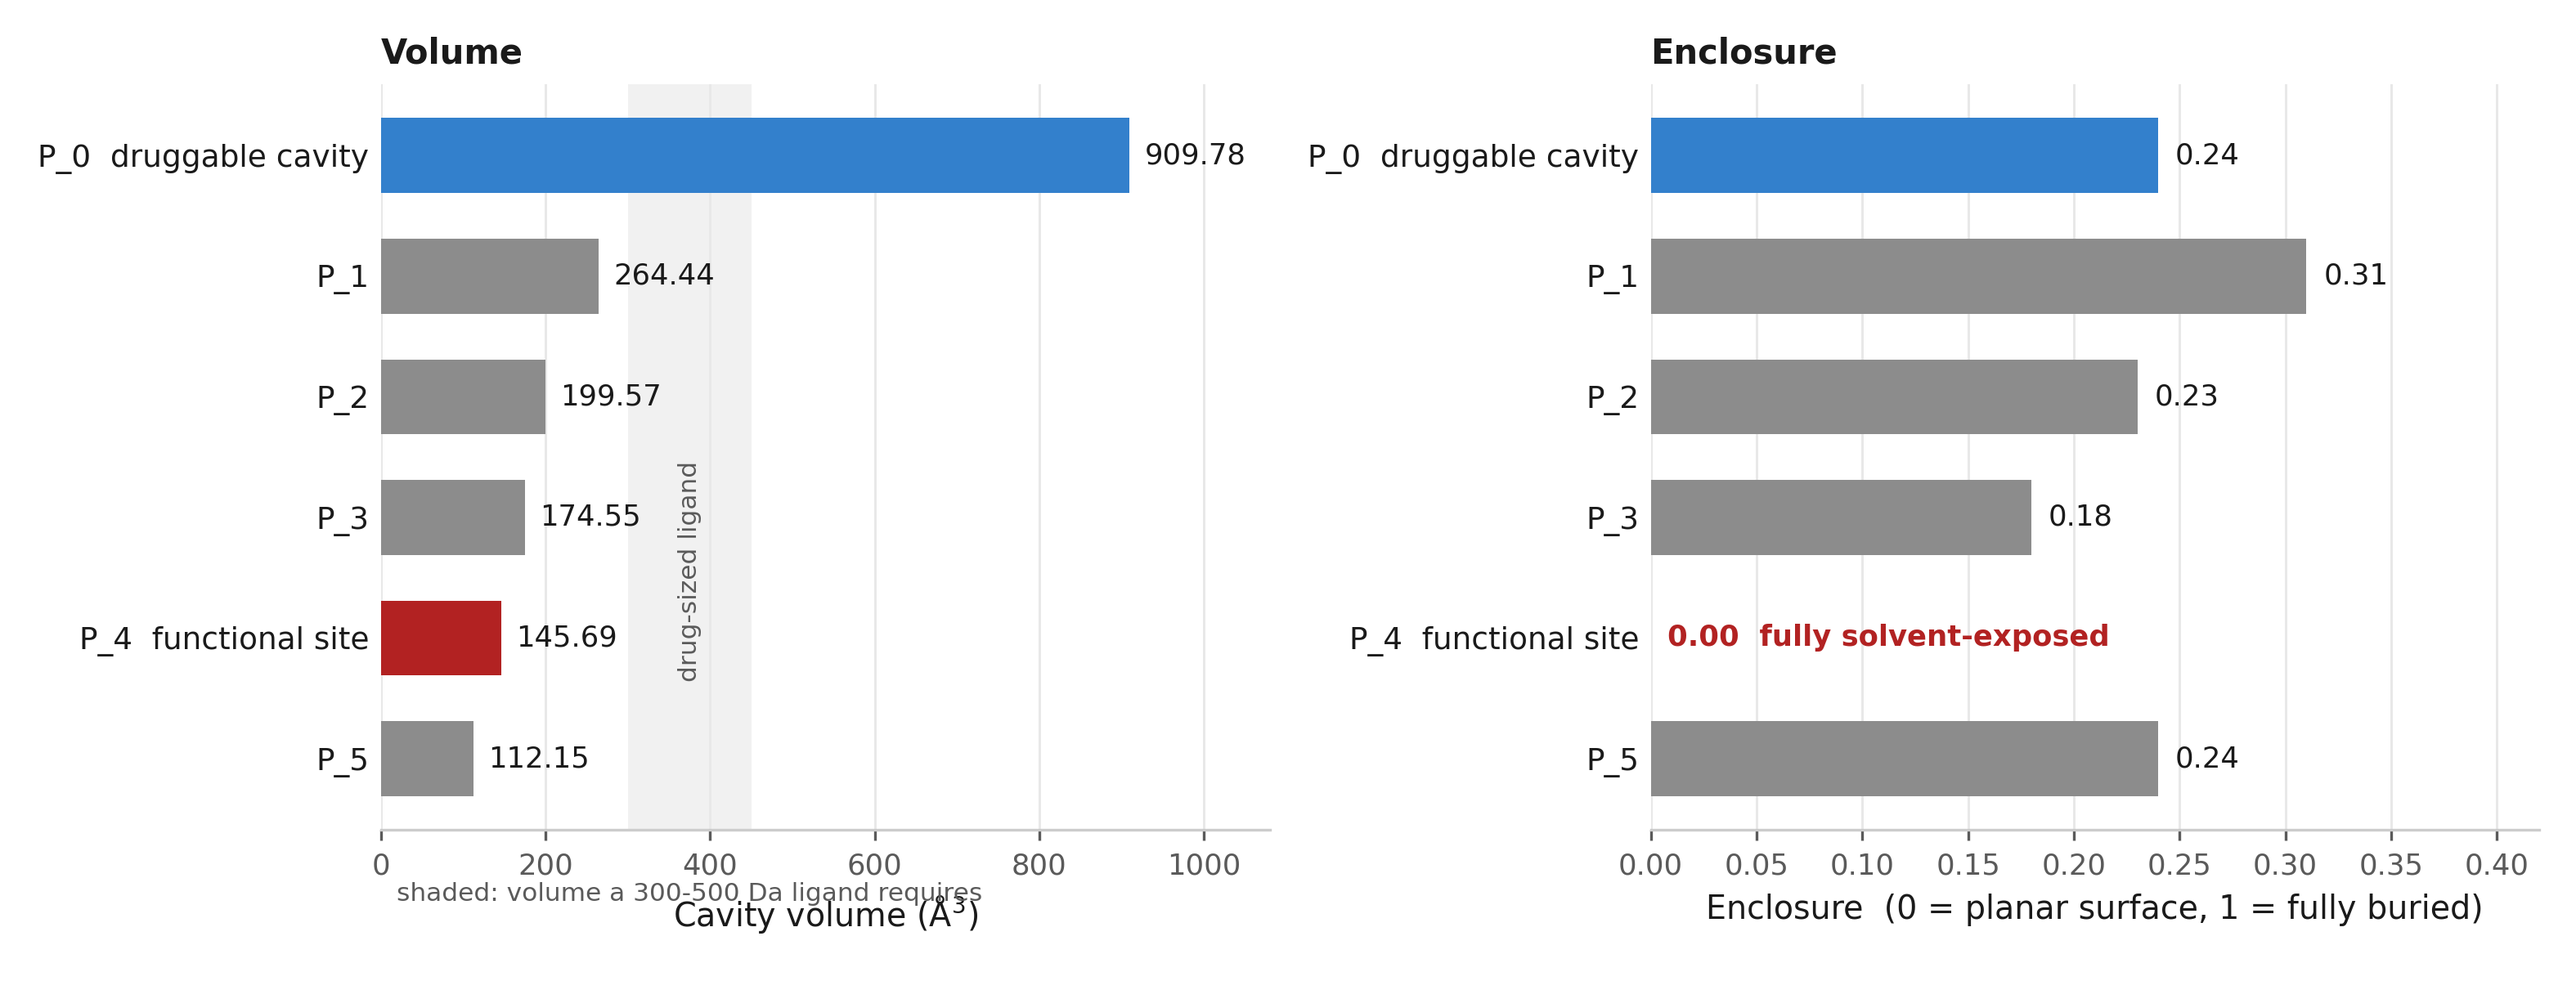
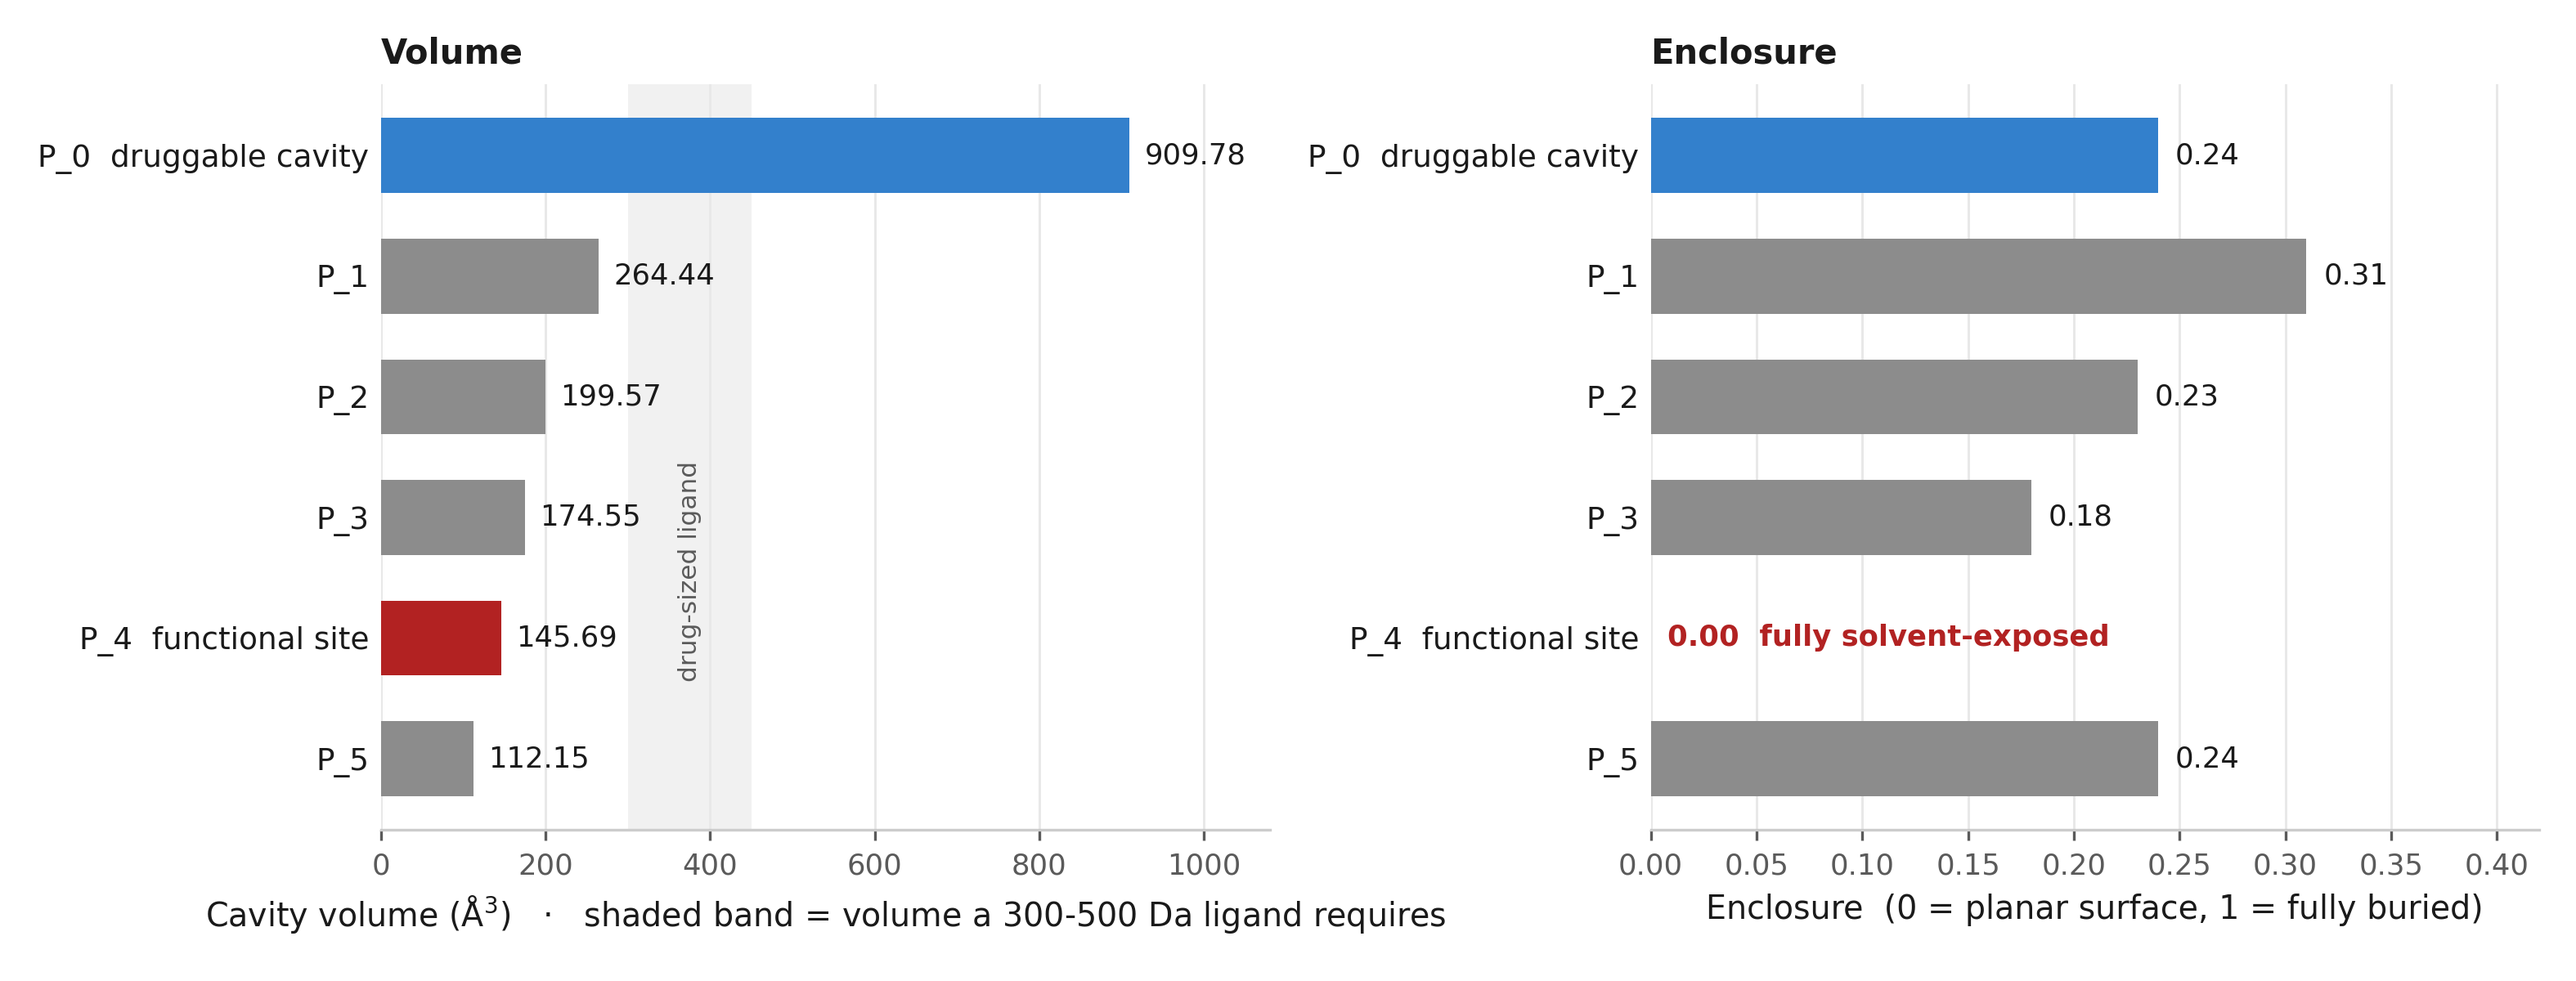
Figure 2: assemble panels A-D with letters, fix panel D axis label

Changed region(s): [[0.0933, 0.8942, 0.56, 0.9558]]

diff --git a/figures/fig2D_chart.py b/figures/fig2D_chart.py
@@ -1,0 +1,94 @@
+#!/usr/bin/env python3
+"""
+Figure 2 panel D - quantitative comparison of all six detected cavities.
+
+Replaces the attempted cross-section render. Enclosure is a number between 0
+and 1, and the claim the panel has to carry is that the functional site sits
+at exactly 0.00 while the druggable cavity sits at 0.24. A shaded surface can
+only ever hint at that. A chart states it.
+
+All values read directly from the DoGSiteScorer output, not retyped:
+    DoGSiteScorer Results/*_desc.txt
+"""
+import csv, glob, os
+import matplotlib
+matplotlib.use("Agg")
+import matplotlib.pyplot as plt
+
+BLUE, RED, GREY = "#3380CC", "#B22222", "#8C8C8C"
+INK, MUTED = "#1a1a1a", "#5a5a5a"
+
+# ---- read the descriptor table (single source of truth)
+f = glob.glob(os.path.join("DoGSiteScorer Results", "*_desc.txt"))
+if not f:
+    raise SystemExit("desc.txt not found - run from the Research root")
+rows = list(csv.reader(open(f[0]), delimiter="\t"))
+idx = {h: i for i, h in enumerate(rows[0])}
+P = []
+for r in rows[1:]:
+    if not r:
+        continue
+    P.append(dict(name=r[idx["name"]],
+                  vol=float(r[idx["volume"]]),
+                  enc=float(r[idx["enclosure"]]),
+                  ds=float(r[idx["drugScore"]])))
+P.sort(key=lambda p: -p["vol"])
+
+def style(name):
+    if name == "P_0":
+        return BLUE, "P_0  druggable cavity"
+    if name == "P_4":
+        return RED, "P_4  functional site"
+    return GREY, name
+
+labels = [style(p["name"])[1] for p in P]
+cols = [style(p["name"])[0] for p in P]
+y = range(len(P))[::-1]
+
+fig, ax = plt.subplots(1, 2, figsize=(10.5, 4.0))
+
+# ---- left: volume
+a = ax[0]
+a.axvspan(300, 450, color="#000000", alpha=0.055, lw=0, zorder=0)
+a.text(375, 1.55, "drug-sized ligand", ha="center", va="center",
+       rotation=90, fontsize=7.5, color=MUTED)
+
+a.barh(list(y), [p["vol"] for p in P], color=cols, height=0.62, zorder=2)
+for yy, p in zip(y, P):
+    a.text(p["vol"] + 18, yy, f'{p["vol"]:.2f}', va="center",
+           fontsize=8.5, color=INK)
+a.set_xlim(0, 1080)
+a.set_xlabel("Cavity volume (Å$^3$)   ·   shaded band = volume a 300-500 Da ligand requires",
+             fontsize=9.5, color=INK)
+a.set_title("Volume", loc="left", fontsize=10, color=INK, fontweight="bold")
+
+# ---- right: enclosure
+b = ax[1]
+b.barh(list(y), [p["enc"] for p in P], color=cols, height=0.62, zorder=2)
+for yy, p in zip(y, P):
+    if p["enc"] == 0.0:
+        b.text(0.008, yy, "0.00  fully solvent-exposed", va="center",
+               fontsize=8.5, color=RED, fontweight="bold")
+    else:
+        b.text(p["enc"] + 0.008, yy, f'{p["enc"]:.2f}', va="center",
+               fontsize=8.5, color=INK)
+b.set_xlim(0, 0.42)
+b.set_xlabel("Enclosure  (0 = planar surface, 1 = fully buried)",
+             fontsize=9.5, color=INK)
+b.set_title("Enclosure", loc="left", fontsize=10, color=INK, fontweight="bold")
+
+for a_ in ax:
+    a_.set_yticks(list(y))
+    a_.set_yticklabels(labels, fontsize=9, color=INK)
+    a_.spines[["top", "right", "left"]].set_visible(False)
+    a_.spines["bottom"].set_color("#cccccc")
+    a_.tick_params(axis="x", labelsize=8.5, colors=MUTED, length=3)
+    a_.tick_params(axis="y", length=0)
+    a_.grid(axis="x", color="#e8e8e8", lw=0.7, zorder=0)
+    a_.set_axisbelow(True)
+
+plt.tight_layout()
+plt.savefig("fig2D_chart.png", dpi=300, facecolor="white")
+print("wrote fig2D_chart.png")
+for p in P:
+    print(f'  {p["name"]}  vol {p["vol"]:>7.2f}  enc {p["enc"]:.2f}  drugScore {p["ds"]:.3f}')

diff --git a/figures/assemble_fig2.py b/figures/assemble_fig2.py
@@ -1,0 +1,94 @@
+#!/usr/bin/env python3
+"""
+Assemble Figure 2 from its four panels.
+
+Layout: A, B, C across the top at equal height, D full width beneath.
+Output: Figure2.png, 180 mm wide at 300 dpi (2126 px), white background.
+
+Each PyMOL panel is auto-cropped to its content first. The three renders share
+one camera but frame the protein differently, so without cropping the molecule
+appears at three different apparent sizes. Cropping to content and matching
+height fixes that. Panel D is a chart and is used as-is.
+
+Panel letters are drawn here, so they sit outside the artwork rather than on it.
+"""
+import os
+from PIL import Image, ImageDraw, ImageFont
+import matplotlib
+
+DPI = 300
+W_MM = 180
+W = int(W_MM / 25.4 * DPI)          # 2126 px
+GAP = int(0.030 * W)                # gap between panels
+MARGIN = int(0.012 * W)
+LETTER_PT = 46
+
+PANELS = ["fig2A_t25.png", "fig2B.png", "fig2C.png"]
+PANEL_D = "fig2D_chart.png"
+OUT = "Figure2.png"
+
+def load_font(size):
+    for name in ("DejaVuSans-Bold.ttf", "DejaVuSans.ttf"):
+        p = os.path.join(os.path.dirname(matplotlib.__file__),
+                         "mpl-data", "fonts", "ttf", name)
+        if os.path.exists(p):
+            return ImageFont.truetype(p, size)
+    return ImageFont.load_default()
+
+def autocrop(im, tol=248, pad=12):
+    """Trim near-white margin, keeping a small pad."""
+    g = im.convert("L")
+    mask = g.point(lambda v: 255 if v < tol else 0)
+    bb = mask.getbbox()
+    if not bb:
+        return im
+    l, t, r, b = bb
+    l = max(0, l - pad); t = max(0, t - pad)
+    r = min(im.width, r + pad); b = min(im.height, b + pad)
+    return im.crop((l, t, r, b))
+
+for f in PANELS + [PANEL_D]:
+    if not os.path.exists(f):
+        raise SystemExit("missing %s - run from the Research root" % f)
+
+# ---- top row: crop, then scale each to a common height
+tops = [autocrop(Image.open(f).convert("RGB")) for f in PANELS]
+cell_w = (W - 2 * MARGIN - 2 * GAP) // 3
+# common height = the tallest panel once each is fitted to cell_w
+heights = [int(im.height * cell_w / im.width) for im in tops]
+row_h = max(heights)
+fitted = []
+for im in tops:
+    s = min(cell_w / im.width, row_h / im.height)
+    fitted.append(im.resize((max(1, int(im.width * s)),
+                             max(1, int(im.height * s))), Image.LANCZOS))
+
+# ---- panel D: full content width
+d = Image.open(PANEL_D).convert("RGB")
+d_w = W - 2 * MARGIN
+d = d.resize((d_w, int(d.height * d_w / d.width)), Image.LANCZOS)
+
+letter_h = int(LETTER_PT * 1.5)
+H = MARGIN + letter_h + row_h + GAP + letter_h + d.height + MARGIN
+canvas = Image.new("RGB", (W, H), "white")
+draw = ImageDraw.Draw(canvas)
+font = load_font(LETTER_PT)
+
+y_letter = MARGIN
+y_row = MARGIN + letter_h
+for i, im in enumerate(fitted):
+    x_cell = MARGIN + i * (cell_w + GAP)
+    draw.text((x_cell, y_letter), "ABC"[i], fill="black", font=font)
+    # centre the panel horizontally in its cell, top-align in the row
+    canvas.paste(im, (x_cell + (cell_w - im.width) // 2, y_row))
+
+y_dl = y_row + row_h + GAP
+draw.text((MARGIN, y_dl), "D", fill="black", font=font)
+canvas.paste(d, (MARGIN, y_dl + letter_h))
+
+canvas.save(OUT, dpi=(DPI, DPI))
+print("wrote %s  %d x %d px  (%d mm wide at %d dpi)"
+      % (OUT, canvas.width, canvas.height, W_MM, DPI))
+print("  top row cell %d px wide, row height %d px" % (cell_w, row_h))
+for f, im in zip(PANELS, fitted):
+    print("    %-18s -> %d x %d" % (f, im.width, im.height))
